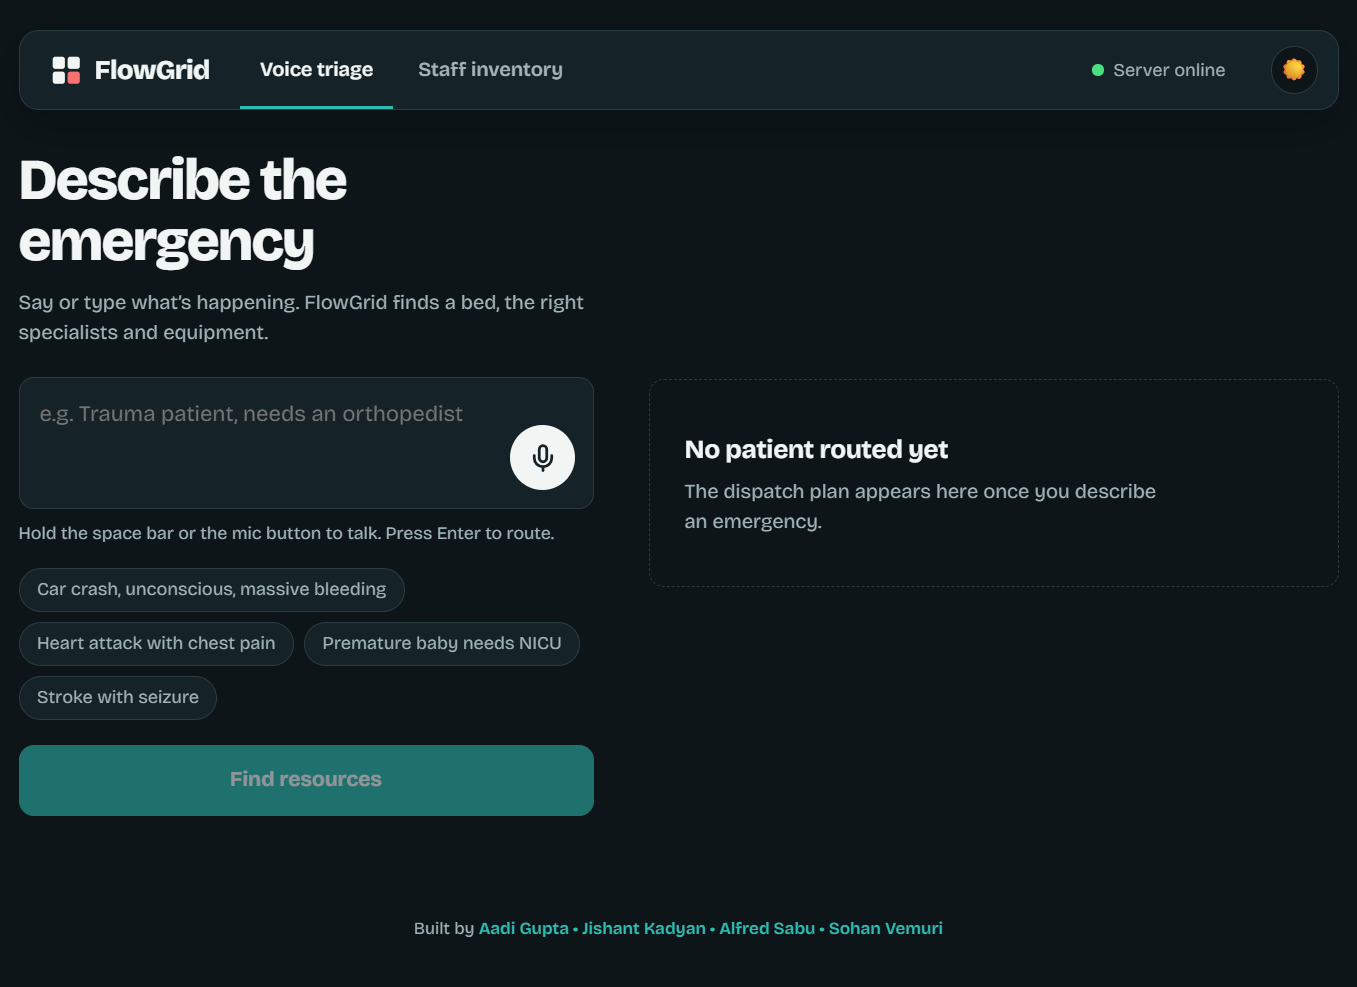
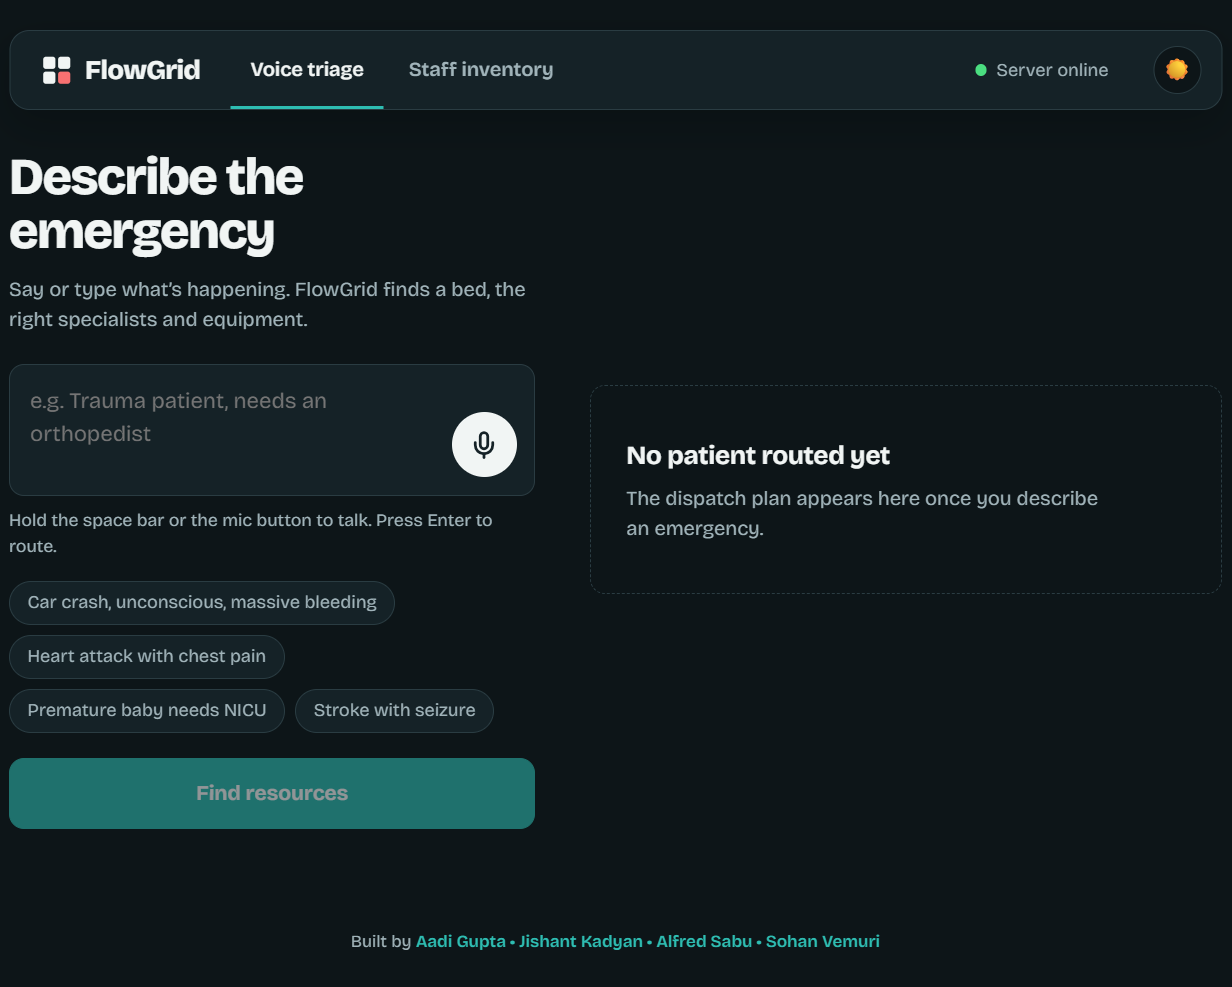
size

diff --git a/index.html b/index.html
@@ -133,7 +133,6 @@
         .project-box:hover {
             border-color: #a1a1aa; /* Silvery/Zinc glow */
             box-shadow: 0 10px 30px -10px rgba(0,0,0,0.7), inset 0 0 20px rgba(255,255,255,0.03);
-            /* Bouncy hover is handled by the tailwind class, but we ensure shadow/border match here */
         }
 
         /* Expanding Drawing Gallery */
@@ -304,60 +303,60 @@
                     <p class="text-brand-text font-light">Languages, tools, and methodologies I work with. Hover for details.</p>
                 </div>
                 
-                <div class="flex flex-wrap justify-center gap-4 text-pop-up delay-100 max-w-4xl mx-auto">
+                <div class="flex flex-wrap justify-center gap-4 text-pop-up delay-100 max-w-5xl mx-auto">
                     
                     <!-- Skill with Tooltip -->
                     <div class="relative group cursor-default">
-                        <span class="px-5 py-2.5 bg-brand-card border border-brand-border rounded-full text-sm font-medium text-brand-text group-hover:text-white group-hover:border-zinc-500 bouncy-hover inline-block">Python</span>
+                        <span class="px-7 py-3.5 md:px-8 md:py-4 bg-brand-card border border-brand-border rounded-full text-base md:text-lg font-semibold text-brand-text group-hover:text-white group-hover:border-zinc-500 bouncy-hover inline-block">Python</span>
                         <div class="absolute bottom-full left-1/2 -translate-x-1/2 mb-3 w-72 p-5 bg-zinc-800 text-sm font-light text-zinc-200 rounded-2xl opacity-0 invisible group-hover:opacity-100 group-hover:visible transition-all duration-300 transform translate-y-2 group-hover:translate-y-0 pointer-events-none z-20 text-center shadow-xl leading-relaxed">
                             My primary language for building backend logic, data parsing, and AI integrations (like faster-whisper).
                         </div>
                     </div>
 
                     <div class="relative group cursor-default">
-                        <span class="px-5 py-2.5 bg-brand-card border border-brand-border rounded-full text-sm font-medium text-brand-text group-hover:text-white group-hover:border-zinc-500 bouncy-hover inline-block">HTML5 & CSS3</span>
+                        <span class="px-7 py-3.5 md:px-8 md:py-4 bg-brand-card border border-brand-border rounded-full text-base md:text-lg font-semibold text-brand-text group-hover:text-white group-hover:border-zinc-500 bouncy-hover inline-block">HTML5 & CSS3</span>
                         <div class="absolute bottom-full left-1/2 -translate-x-1/2 mb-3 w-72 p-5 bg-zinc-800 text-sm font-light text-zinc-200 rounded-2xl opacity-0 invisible group-hover:opacity-100 group-hover:visible transition-all duration-300 transform translate-y-2 group-hover:translate-y-0 pointer-events-none z-20 text-center shadow-xl leading-relaxed">
                             Used to structure and beautifully style the visual front-end of my web applications and portfolios.
                         </div>
                     </div>
 
                     <div class="relative group cursor-default">
-                        <span class="px-5 py-2.5 bg-brand-card border border-brand-border rounded-full text-sm font-medium text-brand-text group-hover:text-white group-hover:border-zinc-500 bouncy-hover inline-block">Git & GitHub</span>
+                        <span class="px-7 py-3.5 md:px-8 md:py-4 bg-brand-card border border-brand-border rounded-full text-base md:text-lg font-semibold text-brand-text group-hover:text-white group-hover:border-zinc-500 bouncy-hover inline-block">Git & GitHub</span>
                         <div class="absolute bottom-full left-1/2 -translate-x-1/2 mb-3 w-72 p-5 bg-zinc-800 text-sm font-light text-zinc-200 rounded-2xl opacity-0 invisible group-hover:opacity-100 group-hover:visible transition-all duration-300 transform translate-y-2 group-hover:translate-y-0 pointer-events-none z-20 text-center shadow-xl leading-relaxed">
                             Version control essentials for tracking code changes and collaborating efficiently with my hackathon teams.
                         </div>
                     </div>
 
                     <div class="relative group cursor-default">
-                        <span class="px-5 py-2.5 bg-brand-card border border-brand-border rounded-full text-sm font-medium text-brand-text group-hover:text-white group-hover:border-zinc-500 bouncy-hover inline-block">Arduino & ESP32</span>
+                        <span class="px-7 py-3.5 md:px-8 md:py-4 bg-brand-card border border-brand-border rounded-full text-base md:text-lg font-semibold text-brand-text group-hover:text-white group-hover:border-zinc-500 bouncy-hover inline-block">Arduino & ESP32</span>
                         <div class="absolute bottom-full left-1/2 -translate-x-1/2 mb-3 w-72 p-5 bg-zinc-800 text-sm font-light text-zinc-200 rounded-2xl opacity-0 invisible group-hover:opacity-100 group-hover:visible transition-all duration-300 transform translate-y-2 group-hover:translate-y-0 pointer-events-none z-20 text-center shadow-xl leading-relaxed">
                             Microcontrollers I program (in C/C++) to read sensors, control motors, and act as the brain for my hardware projects.
                         </div>
                     </div>
 
                     <div class="relative group cursor-default">
-                        <span class="px-5 py-2.5 bg-brand-card border border-brand-border rounded-full text-sm font-medium text-brand-text group-hover:text-white group-hover:border-zinc-500 bouncy-hover inline-block">Hardware Prototyping</span>
+                        <span class="px-7 py-3.5 md:px-8 md:py-4 bg-brand-card border border-brand-border rounded-full text-base md:text-lg font-semibold text-brand-text group-hover:text-white group-hover:border-zinc-500 bouncy-hover inline-block">Hardware Prototyping</span>
                         <div class="absolute bottom-full left-1/2 -translate-x-1/2 mb-3 w-72 p-5 bg-zinc-800 text-sm font-light text-zinc-200 rounded-2xl opacity-0 invisible group-hover:opacity-100 group-hover:visible transition-all duration-300 transform translate-y-2 group-hover:translate-y-0 pointer-events-none z-20 text-center shadow-xl leading-relaxed">
                             Building real, physical systems on breadboards, managing power distribution, and assembling rovers and safety tools.
                         </div>
                     </div>
 
                     <div class="relative group cursor-default">
-                        <span class="px-5 py-2.5 bg-brand-card border border-brand-border rounded-full text-sm font-medium text-brand-text group-hover:text-white group-hover:border-zinc-500 bouncy-hover inline-block">Sensor Integration</span>
+                        <span class="px-7 py-3.5 md:px-8 md:py-4 bg-brand-card border border-brand-border rounded-full text-base md:text-lg font-semibold text-brand-text group-hover:text-white group-hover:border-zinc-500 bouncy-hover inline-block">Sensor Integration</span>
                         <div class="absolute bottom-full left-1/2 -translate-x-1/2 mb-3 w-72 p-5 bg-zinc-800 text-sm font-light text-zinc-200 rounded-2xl opacity-0 invisible group-hover:opacity-100 group-hover:visible transition-all duration-300 transform translate-y-2 group-hover:translate-y-0 pointer-events-none z-20 text-center shadow-xl leading-relaxed">
                             Connecting physical sensors (like ultrasonic radars and barometers) to code so computers can understand the real world.
                         </div>
                     </div>
 
                     <div class="relative group cursor-default">
-                        <span class="px-5 py-2.5 bg-brand-card border border-brand-border rounded-full text-sm font-medium text-brand-text group-hover:text-white group-hover:border-zinc-500 bouncy-hover inline-block">OrCAD X</span>
+                        <span class="px-7 py-3.5 md:px-8 md:py-4 bg-brand-card border border-brand-border rounded-full text-base md:text-lg font-semibold text-brand-text group-hover:text-white group-hover:border-zinc-500 bouncy-hover inline-block">OrCAD X</span>
                         <div class="absolute bottom-full left-1/2 -translate-x-1/2 mb-3 w-72 p-5 bg-zinc-800 text-sm font-light text-zinc-200 rounded-2xl opacity-0 invisible group-hover:opacity-100 group-hover:visible transition-all duration-300 transform translate-y-2 group-hover:translate-y-0 pointer-events-none z-20 text-center shadow-xl leading-relaxed">
                             Designing and simulating electronic circuits and PCB layouts for custom hardware projects.
                         </div>
                     </div>
 
                     <div class="relative group cursor-default">
-                        <span class="px-5 py-2.5 bg-brand-card border border-brand-border rounded-full text-sm font-medium text-brand-text group-hover:text-white group-hover:border-zinc-500 bouncy-hover inline-block">SolidWorks</span>
+                        <span class="px-7 py-3.5 md:px-8 md:py-4 bg-brand-card border border-brand-border rounded-full text-base md:text-lg font-semibold text-brand-text group-hover:text-white group-hover:border-zinc-500 bouncy-hover inline-block">SolidWorks</span>
                         <div class="absolute bottom-full left-1/2 -translate-x-1/2 mb-3 w-72 p-5 bg-zinc-800 text-sm font-light text-zinc-200 rounded-2xl opacity-0 invisible group-hover:opacity-100 group-hover:visible transition-all duration-300 transform translate-y-2 group-hover:translate-y-0 pointer-events-none z-20 text-center shadow-xl leading-relaxed">
                             Creating 3D models and mechanical designs for structural components, chassis, and functional parts.
                         </div>
@@ -365,28 +364,28 @@
 
                 </div>
 
-                <div class="mt-12 text-pop-up delay-200 max-w-5xl mx-auto">
-                    <h3 class="text-xl font-semibold tracking-tight text-brand-heading mb-4 text-center">Currently Learning & Exploring</h3>
-                    <div class="grid grid-cols-1 md:grid-cols-3 gap-4 text-left">
+                <div class="mt-16 text-pop-up delay-200 max-w-5xl mx-auto">
+                    <h3 class="text-xl font-semibold tracking-tight text-brand-heading mb-6 text-center">Currently Learning & Exploring</h3>
+                    <div class="grid grid-cols-1 md:grid-cols-3 gap-6 text-left">
                         <div class="relative group cursor-default w-full">
-                            <span class="flex justify-center w-full px-5 py-3 bg-brand-bg border border-brand-accent/50 rounded-xl text-sm font-medium text-zinc-400 group-hover:text-brand-heading group-hover:border-zinc-400 bouncy-hover items-center gap-2">
-                                <i class="fas fa-microchip fa-fade text-xs opacity-70"></i> Edge AI / TinyML
+                            <span class="flex justify-center w-full px-6 py-4 bg-brand-bg border border-brand-accent/50 rounded-xl text-base md:text-lg font-semibold text-zinc-400 group-hover:text-brand-heading group-hover:border-zinc-400 bouncy-hover items-center gap-3">
+                                <i class="fas fa-microchip fa-fade text-sm opacity-70"></i> Edge AI / TinyML
                             </span>
                             <div class="absolute bottom-full left-1/2 -translate-x-1/2 mb-3 w-72 p-5 bg-zinc-800 text-sm font-light text-zinc-200 rounded-2xl opacity-0 invisible group-hover:opacity-100 group-hover:visible transition-all duration-300 transform translate-y-2 group-hover:translate-y-0 pointer-events-none z-20 text-center shadow-xl leading-relaxed">
                                 Exploring how to run machine learning models directly on microcontrollers to make hardware projects smarter locally.
                             </div>
                         </div>
                         <div class="relative group cursor-default w-full">
-                            <span class="flex justify-center w-full px-5 py-3 bg-brand-bg border border-brand-accent/50 rounded-xl text-sm font-medium text-zinc-400 group-hover:text-brand-heading group-hover:border-zinc-400 bouncy-hover items-center gap-2">
-                                <i class="fab fa-react fa-spin-pulse text-xs opacity-70"></i> React.js
+                            <span class="flex justify-center w-full px-6 py-4 bg-brand-bg border border-brand-accent/50 rounded-xl text-base md:text-lg font-semibold text-zinc-400 group-hover:text-brand-heading group-hover:border-zinc-400 bouncy-hover items-center gap-3">
+                                <i class="fab fa-react fa-spin-pulse text-sm opacity-70"></i> React.js
                             </span>
                             <div class="absolute bottom-full left-1/2 -translate-x-1/2 mb-3 w-72 p-5 bg-zinc-800 text-sm font-light text-zinc-200 rounded-2xl opacity-0 invisible group-hover:opacity-100 group-hover:visible transition-all duration-300 transform translate-y-2 group-hover:translate-y-0 pointer-events-none z-20 text-center shadow-xl leading-relaxed">
                                 Expanding my frontend toolkit to build dynamic, component-driven user interfaces for my web applications.
                             </div>
                         </div>
                         <div class="relative group cursor-default w-full">
-                            <span class="flex justify-center w-full px-5 py-3 bg-brand-bg border border-brand-accent/50 rounded-xl text-sm font-medium text-zinc-400 group-hover:text-brand-heading group-hover:border-zinc-400 bouncy-hover items-center gap-2">
-                                <i class="fas fa-network-wired fa-fade text-xs opacity-70"></i> IoT Architecture
+                            <span class="flex justify-center w-full px-6 py-4 bg-brand-bg border border-brand-accent/50 rounded-xl text-base md:text-lg font-semibold text-zinc-400 group-hover:text-brand-heading group-hover:border-zinc-400 bouncy-hover items-center gap-3">
+                                <i class="fas fa-network-wired fa-fade text-sm opacity-70"></i> IoT Architecture
                             </span>
                             <div class="absolute bottom-full left-1/2 -translate-x-1/2 mb-3 w-72 p-5 bg-zinc-800 text-sm font-light text-zinc-200 rounded-2xl opacity-0 invisible group-hover:opacity-100 group-hover:visible transition-all duration-300 transform translate-y-2 group-hover:translate-y-0 pointer-events-none z-20 text-center shadow-xl leading-relaxed">
                                 Learning how to connect embedded devices securely to cloud databases and live dashboards for real-time monitoring.
@@ -435,7 +434,7 @@
 
                         <!-- Image Slot (Curved Corners) -->
                         <div class="w-full aspect-video mb-6 overflow-hidden rounded-2xl border border-zinc-800 relative bg-zinc-900">
-                            <img src="img2.jpeg" alt="Hardware Preview" class="w-full h-full object-cover group-hover:scale-105 transition-transform duration-500">
+                            <img src="img2.jpegs" alt="Hardware Preview" class="w-full h-full object-cover group-hover:scale-105 transition-transform duration-500">
                         </div>
 
                         <h3 class="text-2xl font-bold text-brand-heading mb-3 group-hover:text-white transition-colors">ESP32 Aviation Safety System</h3>
